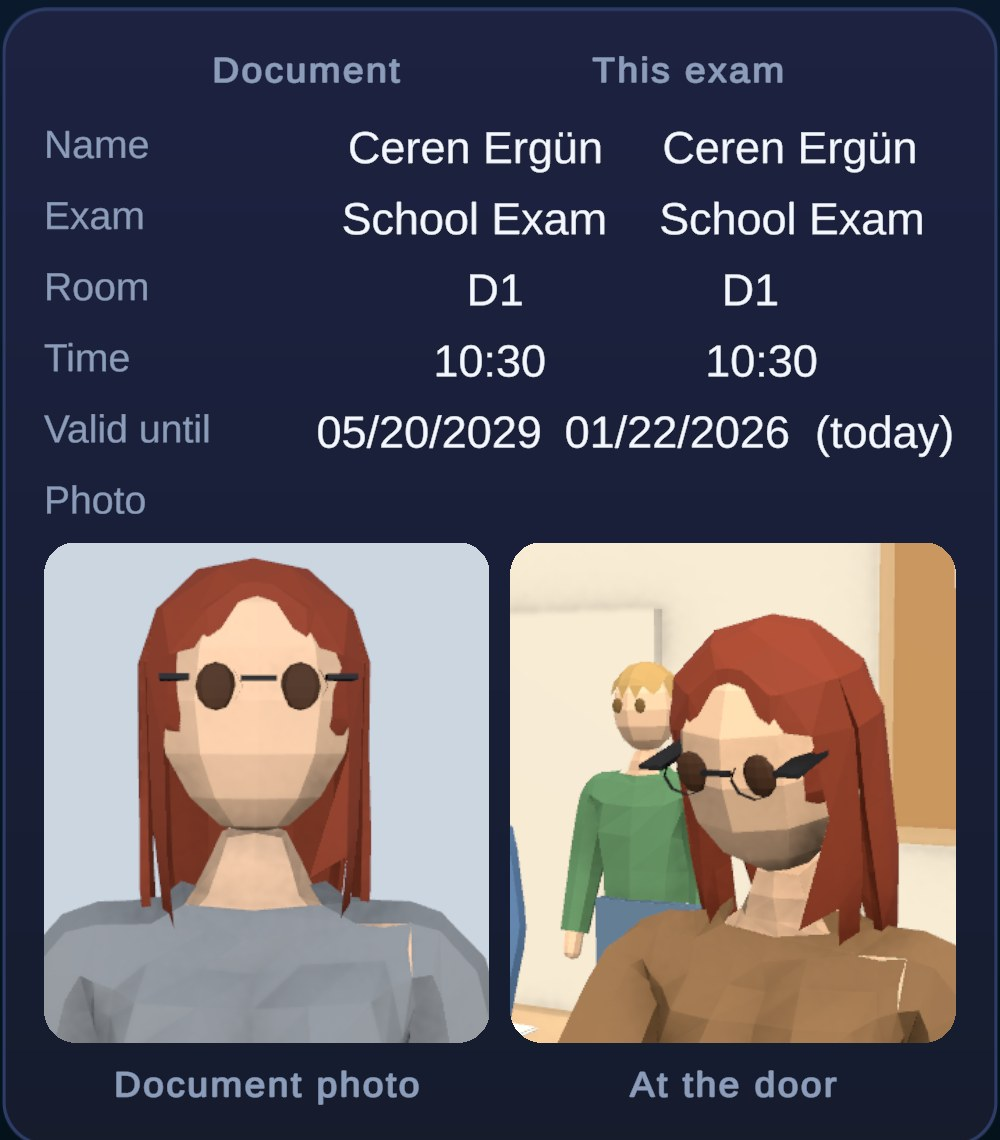
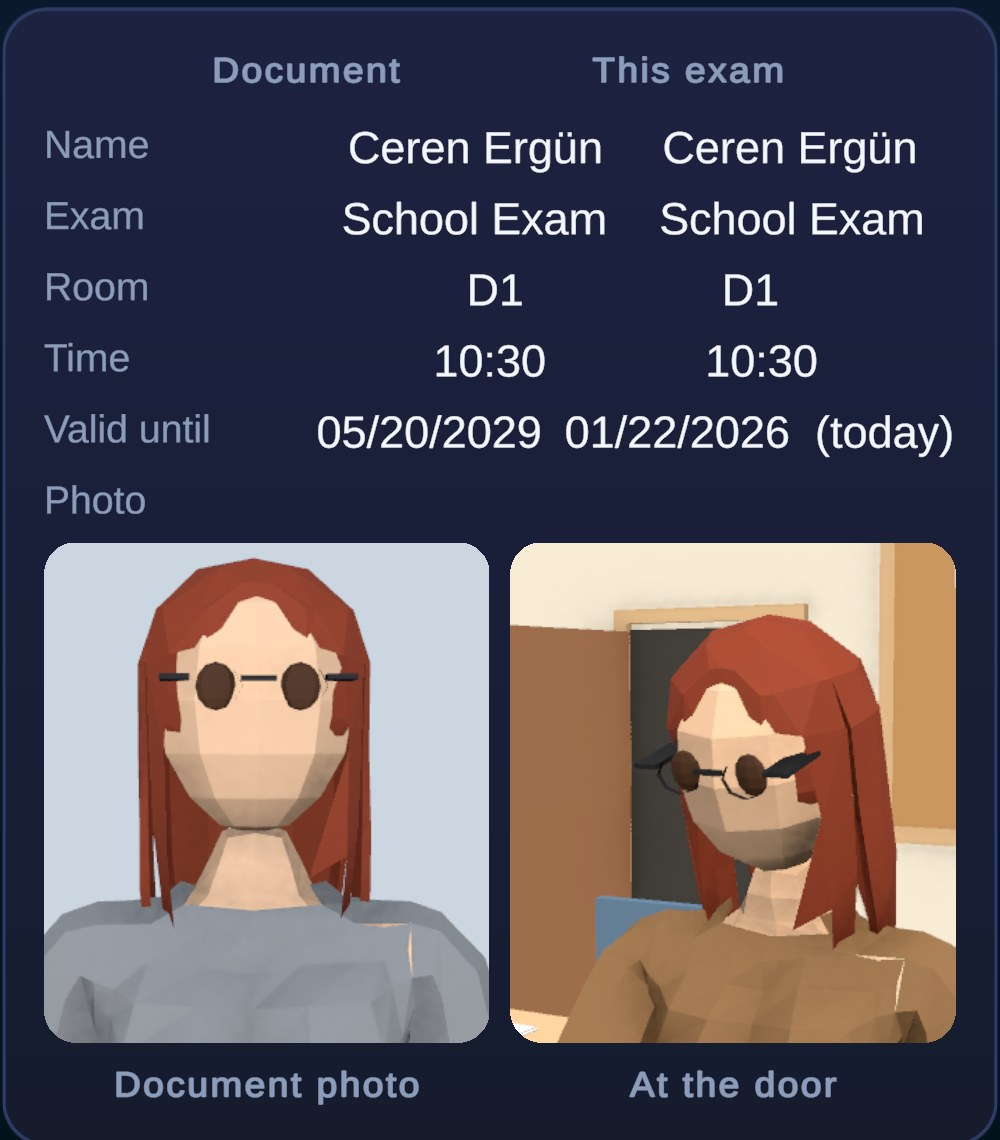
Admission Photo Check: the queue at the open door
Adds a section on the line of waiting students and the door that opens for
admission, and recaptures every door picture against the new background.

Changed region(s): [[0.496, 0.5219, 0.899, 0.8904], [0.837, 0.5526, 0.868, 0.5833]]

diff --git a/admission-photo/index.html b/admission-photo/index.html
@@ -4,7 +4,7 @@
 <meta charset="utf-8">
 <meta name="viewport" content="width=device-width,initial-scale=1">
 <title>Admission Photo Check</title>
-<meta name="description" content="The admission photo check as pictures: the document photo beside a still, live camera on the person at the door, with a readability verdict for every case.">
+<meta name="description" content="The admission photo check as pictures: the document photo beside a still, live camera on the person at the door, a readability verdict for every case, and the queue at the open door.">
 <link rel="preconnect" href="https://fonts.googleapis.com">
 <link rel="preconnect" href="https://fonts.gstatic.com" crossorigin>
 <link rel="stylesheet" href="https://fonts.googleapis.com/css2?family=Bricolage+Grotesque:opsz,wght@12..96,500;12..96,700&family=Source+Sans+3:wght@400;600&family=JetBrains+Mono:wght@500&display=swap">
@@ -137,8 +137,8 @@ figcaption b { color: var(--ink); font-weight: 600; }
           wears the same grey top, so clothing never enters the comparison. Rendered once per face and cached.</li>
         <li><b>At the door.</b> A live camera that never moves. It is placed once from the spot where the room walks each
           student to be checked, at standing eye height, a little in front of them and 26° to the side the room's sun lights.
-          It does not follow anyone. The person being checked fills the right of the frame; the queue, the walk in and the
-          way out show behind and beside them.</li>
+          It does not follow anyone. The person being checked fills the right of the frame. The open door at the back of the
+          room is behind them, so the walk in and the way out show behind and beside them.</li>
         <li><b>The rest of the card is unchanged.</b> The "Photo" row keeps its label and the pictures replace its two value
           cells.</li>
       </ul>
@@ -158,6 +158,58 @@ figcaption b { color: var(--ink); font-weight: 600; }
       <figure><img src="img/seq_reject.jpg" width="1316" height="400" alt="Four frames: a student at the door, then the next student walking up while the rejected one walks away to the back door, then the new student at the door with the rejected one leaving behind them">
         <figcaption><b>Rejected.</b> The rejected student turns and walks back out through the door at the back of the room,
           passing behind the next student as they arrive.</figcaption></figure>
+    </div>
+  </section>
+
+  <section id="queue">
+    <div class="section-head">
+      <h2>The queue at the door</h2>
+      <p class="muted">The students waiting to be checked stand in one evenly spaced line. It starts at the back of the room,
+        runs along the back wall and goes out through the open door. Nobody stands in a desk or on top of anybody else.
+        Captured in Play mode at 1080×2340 with six students, with the card hidden to show the room.</p>
+    </div>
+    <div class="lead-row">
+      <figure>
+        <img src="img/queue_room.jpg" width="540" height="1170" alt="The classroom from the supervisor's camera: an open door on the back wall at the left, four students standing in a line along the back wall from the door, and one student at the inspection spot in the centre aisle">
+        <figcaption>The door phase with six students: one at the inspection spot, four in the line, and one waiting out of
+          sight in the corridor.</figcaption>
+      </figure>
+      <ul class="notes">
+        <li><b>One line, evenly spaced.</b> The places are 0.75 m apart. The head of the line stands at the back of the room
+          and faces the inspection spot. Everyone else faces the person ahead of them.</li>
+        <li><b>Out of the door.</b> Four places fit inside the room. The last one is just beside the door. Anyone after the
+          fourth waits in the corridor behind the wall, each in their own place. Cohorts are 3 to 6 students, so with 4 or 5
+          waiting the line reaches the door.</li>
+        <li><b>Clear of the furniture.</b> The line is 1.1 m behind the back-row chairs and 0.5 m in front of the wall.
+          Before, the queue lane ran through the back-left desk. Everyone past the second place stood on one point.</li>
+        <li><b>The body is where the place is.</b> The animated students stand 0.25 m in front of their own root, so that
+          a student who stands up at their seat stands in front of the chair. The old queue spots ignored this, which pushed
+          each body further into the desk. Each root is now placed 0.25 m behind the body it carries.</li>
+        <li><b>The door opens for admission.</b> The door moved from the left edge of the frame to fully inside it. It now
+          has a frame, a dark doorway and a leaf on a hinge. The leaf swings into the room against the left side when
+          admission starts and closes when the exam begins.</li>
+      </ul>
+    </div>
+    <figure>
+      <img src="img/queue_step.jpg" width="1092" height="972" alt="Four frames of the room after a rejection: the rejected student walking up the left of the aisle while the head of the line walks down the right; the rejected student going through the door; a student from the corridor coming in through the doorway; the same student joining the end of the line">
+      <figcaption><b>Moving up.</b> After a rejection, slowed down. The rejected student walks up the left of the aisle and out
+        through the door. The head of the line walks down the right of the aisle to be checked, and the others move up one
+        place. Once the doorway is clear, the student waiting in the corridor comes in and joins the end of the line.</figcaption>
+    </figure>
+    <div class="figs">
+      <figure>
+        <img src="img/queue_closeup.jpg" width="320" height="400" alt="The At the door picture: a student in a red hoodie in front of the open door, with the last student in line visible beside their head">
+        <figcaption><b>At the door.</b> The open doorway is right behind the person being checked. With a full room, the last
+          student in line shows beside their head. The rest of the line is off the right edge of this still camera.</figcaption>
+      </figure>
+      <figure>
+        <img src="img/queue_closed.jpg" width="540" height="500" alt="The room during the exam: the door is closed, with its frame, brown leaf and handle, and the students are at their desks">
+        <figcaption><b>During the exam.</b> The door is closed again and reads as a door.</figcaption>
+      </figure>
+      <figure>
+        <img src="img/queue_screen.jpg" width="540" height="1170" alt="The full admission screen with six students: the comparison card with the document photo and the At the door picture">
+        <figcaption>The same moment as the player sees it, shown at half size.</figcaption>
+      </figure>
     </div>
   </section>
 
@@ -239,9 +291,9 @@ figcaption b { color: var(--ink); font-weight: 600; }
         also changes how everyone looks in the room, or it could stay as the hard case. A device playtest should decide.</li>
       <li><b>Cost on the phone.</b> The live picture renders the room a second time while the door is open, at 320×400 with
         no shadows or post-processing. That has not been measured on the Galaxy A15 yet.</li>
-      <li><b>Faces in the background.</b> The next student in line is usually visible behind the one being checked, smaller
-        and further back. That is the intent, but a playtest should confirm nobody compares the photo with the wrong
-        face.</li>
+      <li><b>Faces in the background.</b> With a full room, the last student in line shows beside the head of the one being
+        checked, smaller and further back, and a rejected student can be seen leaving through the door behind them. That is
+        the intent, but a playtest should confirm nobody compares the photo with the wrong face.</li>
       <li><b>The admitted student passes close to the camera.</b> For a fraction of a second their head fills part of the
         frame as they walk to their seat. It reads as someone walking past; the camera does not react.</li>
     </ul>

diff --git a/index.html b/index.html
@@ -71,9 +71,9 @@ header { padding-block: 40px 0; display: grid; gap: 16px; }
     <ul class="reports">
       <li class="report">
         <a href="admission-photo/">
-          <time datetime="2026-10-26">2026-10-26</time>
+          <time datetime="2026-10-27">2026-10-27</time>
           <h2>Admission Photo Check</h2>
-          <p>The photo check at the door as pictures: the document photo beside a still, live camera on the person standing there, every case captured on the phone screen, and how readable each one is.</p>
+          <p>The photo check at the door as pictures: the document photo beside a still, live camera on the person standing there, every case captured on the phone screen, how readable each one is, and the line of students waiting at the open door.</p>
         </a>
       </li>
       <li class="report">
